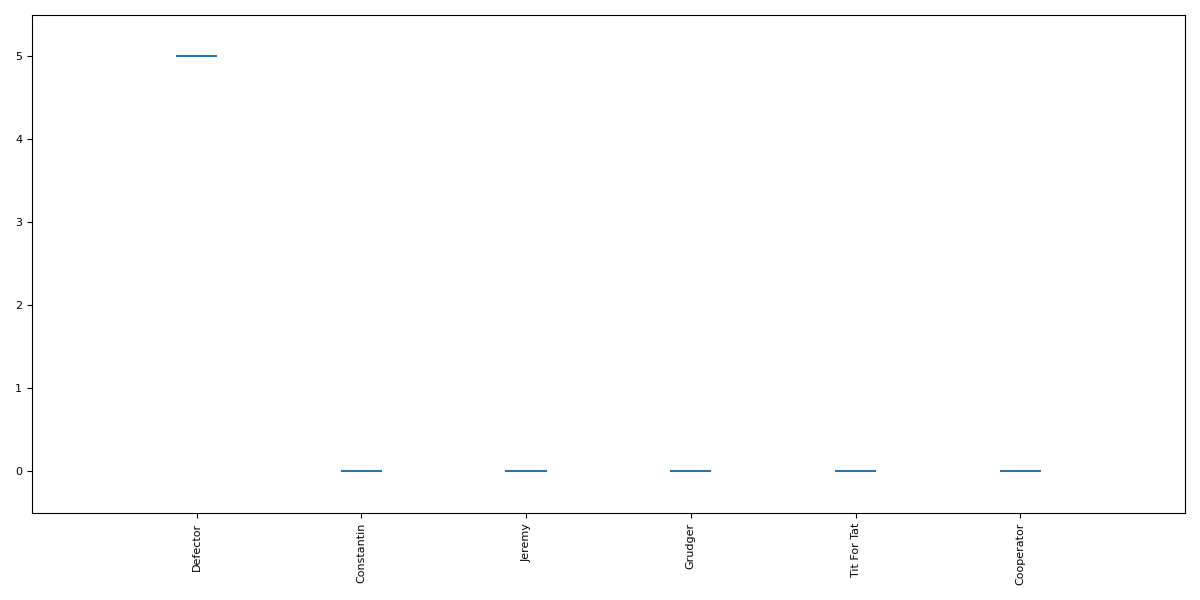
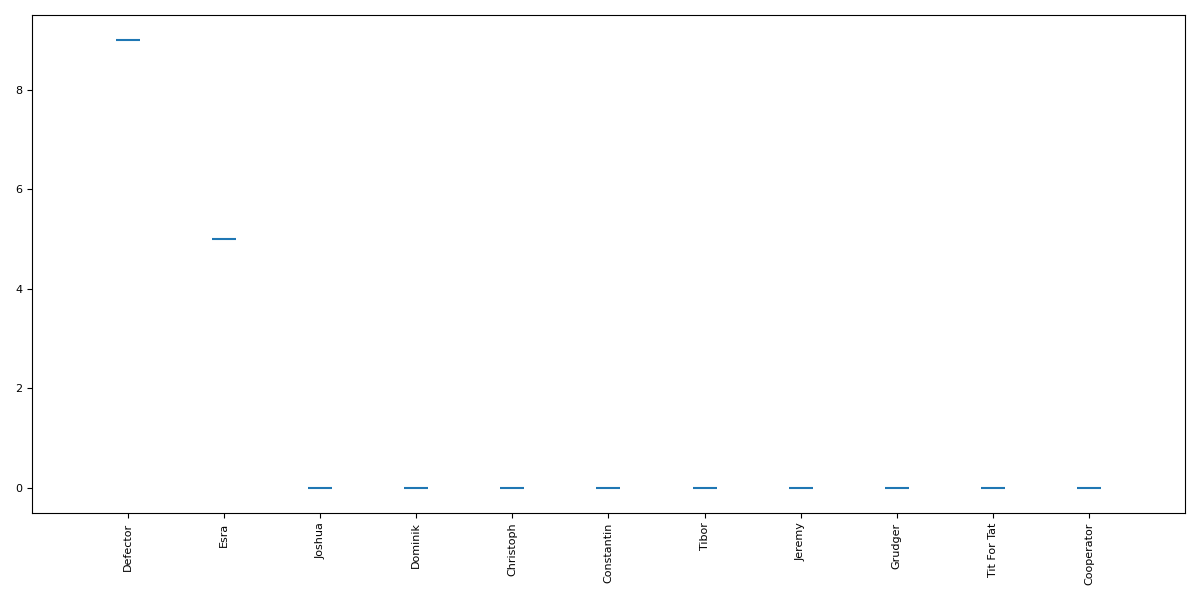
Run first tournament

diff --git a/was-tournament/was_tournament.py b/was-tournament/was_tournament.py
@@ -1,7 +1,12 @@
 import axelrod as axl
 from wasstrategies import jeremy_strategy as pl0
 from wasstrategies import tibor_strategy as pl1
-from wasstrategies import constantin_strategy as pme
+from wasstrategies import constantin_strategy as pl2
+from wasstrategies import christoph_strategy as pl3
+from wasstrategies import dominik_strategy as pl4
+from wasstrategies import esra_strategy as pl5
+from wasstrategies import joshua_strategy as pl6
+
 
 """Run an Axelrod Tournament (https://axelrod.readthedocs.io/en/stable/tutorials/new_to_game_theory_and_or_python
 /tournament.html)"""
@@ -13,7 +18,11 @@ strategies = [
     axl.Grudger(),
     pl0.Jeremy(),
     pl1.Tibor(),
-    pme.Constantin()
+    pl2.Constantin(),
+    pl3.Christoph(),
+    pl4.Dominik(),
+    pl5.Esra(),
+    pl6.Joshua()
 ]
 
 # Print the strategy players
